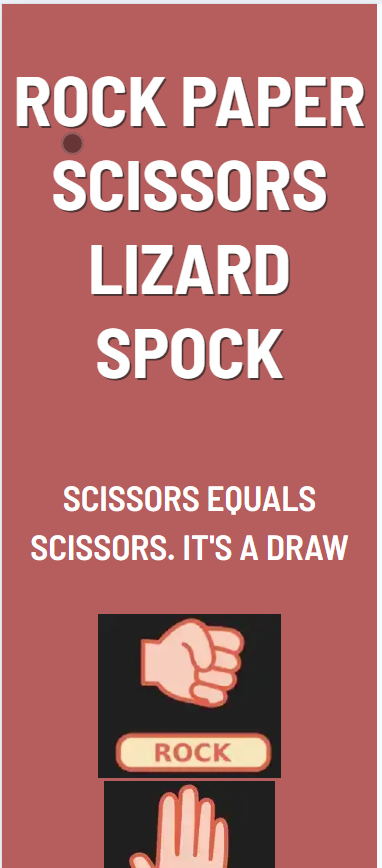
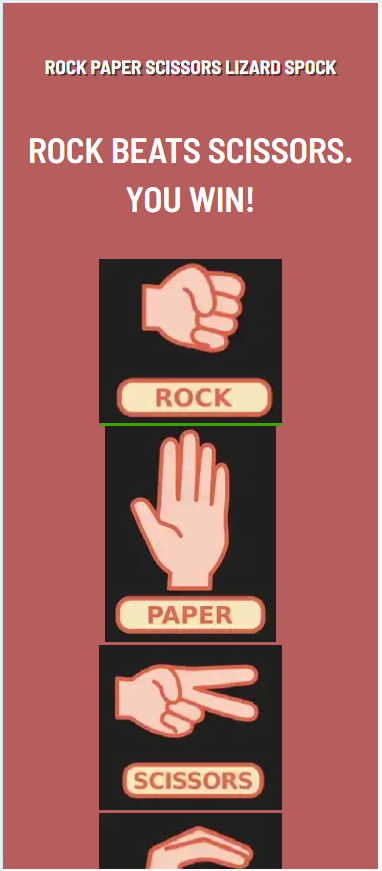
updated small screen images

diff --git a/assets/css/style.css b/assets/css/style.css
@@ -252,7 +252,7 @@ h1 {
   }
 }
 
-@media screen and (max-width: 400px) {
+@media screen and (max-width: 425px) {
   #header {
     font-size: 50px;
     display: block;
@@ -263,8 +263,12 @@ h1 {
   }
 
   .choice {
-    max-width: 50%;
-    max-height: 50%;
+    width: 50%;
+    height: 50%;
     margin: 0 10px;
+  }
+
+  h1 {
+    font-size: 120%;
   }
 }
